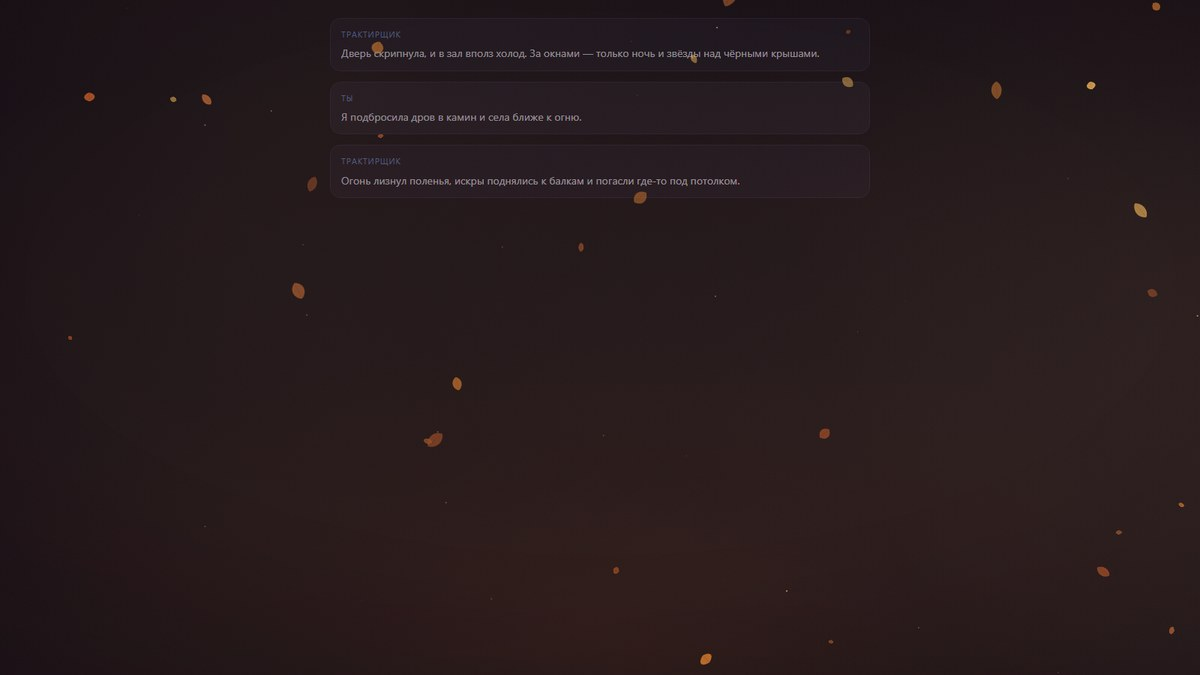
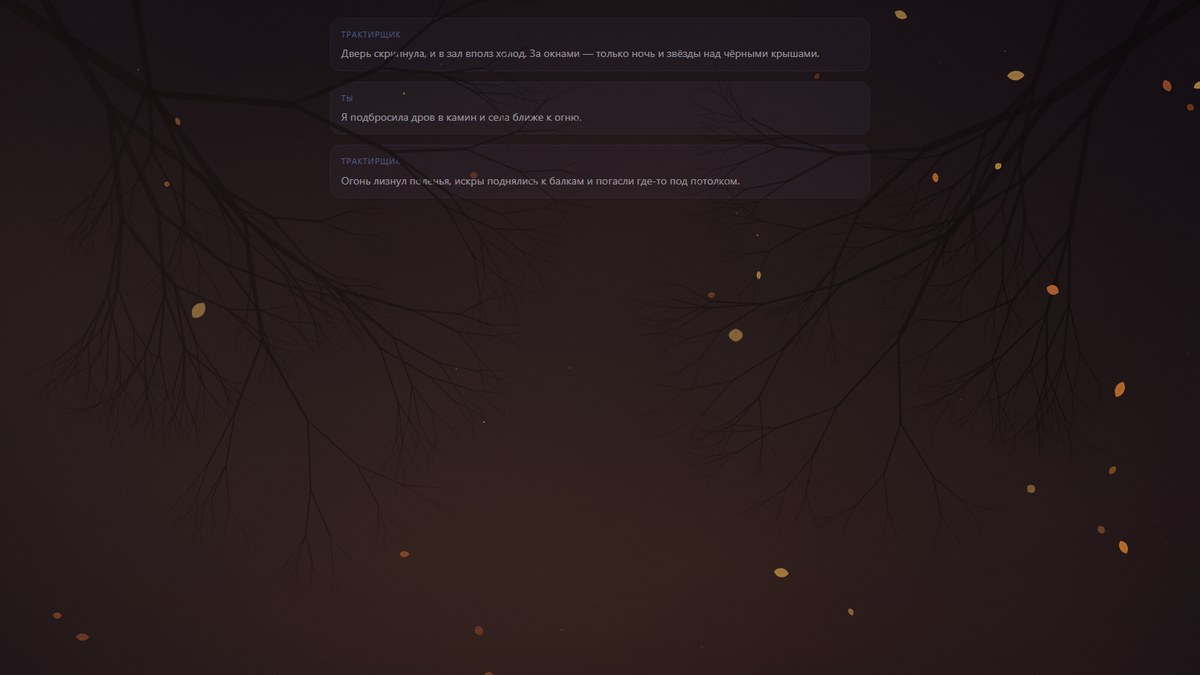
0.3.3: procedural branches for autumn and sakura scenes

diff --git a/src/effects/branches.js b/src/effects/branches.js
@@ -1,0 +1,101 @@
+/*
+ * Ветви: тёмные силуэты, свисающие с верхних углов кадра.
+ *
+ * Рисуются один раз в offscreen-канву (рекурсивное дерево), в кадре — drawImage.
+ * Никаких ассетов: ветки процедурные, поэтому тянутся под любой размер экрана.
+ */
+import { registerEffect, rnd, clamp } from '../engine.js';
+
+/** Одна ветка: линия + рекурсивные побеги. */
+function branch(g, x, y, angle, len, width, depth, color, alpha) {
+    const x2 = x + Math.cos(angle) * len;
+    const y2 = y + Math.sin(angle) * len;
+
+    g.strokeStyle = `rgba(${color},${alpha})`;
+    g.lineWidth = Math.max(0.35, width);
+    g.lineCap = 'round';
+    g.beginPath();
+    g.moveTo(x, y);
+    g.lineTo(x2, y2);
+    g.stroke();
+
+    if (depth <= 0 || width < 0.45) return;
+
+    /* тонкие ветки светлее — даёт ощущение объёма, а не плоской заливки */
+    const childAlpha = alpha * (depth > 2 ? 1 : 0.82);
+    const kids = Math.random() < 0.38 ? 3 : 2;
+    for (let i = 0; i < kids; i++) {
+        const dir = i === 0 ? -1 : 1;
+        const spread = rnd(0.18, 0.5) * dir * (i === 2 ? 0.55 : 1);
+        branch(
+            g,
+            x2,
+            y2,
+            angle + spread + rnd(-0.1, 0.1),
+            len * rnd(0.6, 0.78),
+            width * rnd(0.55, 0.68),
+            depth - 1,
+            color,
+            childAlpha,
+        );
+    }
+}
+
+registerEffect({
+    id: 'branches',
+    name: 'Ветви',
+    group: 'ground',
+    motion: false,
+    create(env) {
+        let w = env.w;
+        let h = env.h;
+        let dpr = env.dpr || 1;
+        const p = env.params || {};
+        const color = p.color || '16,11,14';
+        const alpha = clamp(p.alpha ?? 0.55, 0.05, 1);
+        const depth = Math.round(p.depth ?? 6);
+        const scale = p.scale ?? 1;
+        const sides = Array.isArray(p.sides) ? p.sides : ['left', 'right'];
+        let layer = null;
+
+        function build() {
+            const c = document.createElement('canvas');
+            c.width = Math.max(1, Math.round(w * dpr));
+            c.height = Math.max(1, Math.round(h * dpr));
+            const g = c.getContext('2d');
+            g.setTransform(dpr, 0, 0, dpr, 0, 0);
+
+            const len = Math.min(w, h) * 0.26 * scale;
+            const width = Math.max(5, Math.min(w, h) * 0.016) * scale;
+
+            if (sides.includes('left')) {
+                branch(g, -w * 0.03, -h * 0.04, rnd(0.55, 0.8), len * 1.15, width, depth, color, alpha);
+                branch(g, w * 0.02, -h * 0.05, rnd(0.95, 1.2), len * 0.85, width * 0.75, depth - 1, color, alpha);
+                branch(g, w * 0.11, -h * 0.03, rnd(1.2, 1.45), len * 0.55, width * 0.55, depth - 2, color, alpha * 0.92);
+            }
+            if (sides.includes('right')) {
+                branch(g, w * 1.03, -h * 0.04, Math.PI - rnd(0.55, 0.8), len * 1.15, width, depth, color, alpha);
+                branch(g, w * 0.98, -h * 0.05, Math.PI - rnd(0.95, 1.2), len * 0.85, width * 0.75, depth - 1, color, alpha);
+                branch(g, w * 0.89, -h * 0.03, Math.PI - rnd(1.2, 1.45), len * 0.55, width * 0.55, depth - 2, color, alpha * 0.92);
+            }
+            if (sides.includes('top')) {
+                branch(g, w * rnd(0.3, 0.7), -h * 0.05, Math.PI / 2 + rnd(-0.3, 0.3), len * 0.8, width * 0.7, depth - 1, color, alpha * 0.9);
+            }
+
+            layer = c;
+        }
+        build();
+
+        return {
+            resize(nw, nh, ndpr) {
+                w = nw;
+                h = nh;
+                dpr = ndpr || dpr;
+                build();
+            },
+            draw(ctx) {
+                if (layer) ctx.drawImage(layer, 0, 0, w, h);
+            },
+        };
+    },
+});

diff --git a/src/scenes.js b/src/scenes.js
@@ -12,6 +12,7 @@ import './effects/leaves.js';
 import './effects/magic.js';
 import './effects/ash.js';
 import './effects/rays.js';
+import './effects/branches.js';
 
 /* ---------- небо ---------- */
 
@@ -207,6 +208,7 @@ export const SCENES = [
         sky: 'autumn',
         grade: { shade: 1, tint: 'rgba(92,42,16,.16)' },
         layers: [
+            { effect: 'branches', params: { color: '10,7,9', alpha: 0.85, depth: 7, scale: 1.1, sides: ['left', 'right'] } },
             { effect: 'leaves', params: { shape: 'leaf', size: 1, count: 34 } },
             { effect: 'mist', params: { color: '164,124,96' }, intensity: 0.45 },
             { effect: 'motes', params: { color: '255,196,130', size: 0.6 }, intensity: 0.45 },
@@ -232,6 +234,7 @@ export const SCENES = [
         sky: 'sakura',
         grade: { shade: 1, tint: 'rgba(122,40,82,.14)' },
         layers: [
+            { effect: 'branches', params: { color: '20,12,20', alpha: 0.8, depth: 7, scale: 1.05, sides: ['left', 'right'] } },
             { effect: 'leaves', params: { shape: 'petal', size: 0.95, count: 48 } },
             { effect: 'mist', params: { color: '232,182,204' }, intensity: 0.4 },
             { effect: 'motes', params: { color: '255,214,232', size: 0.55 }, intensity: 0.5 },

diff --git a/demo/demo.html b/demo/demo.html
@@ -91,7 +91,7 @@ function applyScene(id) {
 }
 
 const ui = createUI({
-    version: '0.3.2',
+    version: '0.3.3',
     scenes: SCENES,
     getSettings: () => settings,
     setScene: (id) => applyScene(id),

diff --git a/index.js b/index.js
@@ -98,7 +98,7 @@ function rememberChat() {
 
 const engine = new Engine();
 
-const VERSION = '0.3.2';
+const VERSION = '0.3.3';
 
 const ui = createUI({
     version: VERSION,

diff --git a/CHANGELOG.md b/CHANGELOG.md
@@ -1,5 +1,13 @@
 # Changelog
 
+## 0.3.3 — branches for autumn and sakura
+
+- **New effect `branches`:** dark bare-branch silhouettes hanging from the top corners, generated
+  procedurally (recursive tree drawn once into an offscreen canvas), so they scale to any screen
+  without assets and cost nothing per frame.
+- Added to `autumn` and `sakura` scenes; the effect is parameterised (`color`, `alpha`, `depth`,
+  `scale`, `sides: left/right/top`) so it can be dropped into any scene.
+
 ## 0.3.2 — self-healing layer geometry
 
 - **The layer now corrects its own position.** When SillyTavern moves its panels (mobile drawer,

diff --git a/README.md b/README.md
@@ -41,7 +41,7 @@ Requires SillyTavern **1.12+**. No API, no external requests, nothing is written
 | `forest` | Enchanted Forest | fireflies, mist, green grade |
 | `desert` | Desert | dunes, blowing sand, heat shimmer |
 | `desert_night` | Desert at Night | stars over dunes, cold sand |
-| `autumn` | Autumn Leaves | falling maple leaves, warm haze |
+| `autumn` | Autumn Leaves | bare branches from the top, falling leaves, warm haze |
 | `garden` | Green Garden | green leaves, pollen dust |
 | `sakura` | Sakura | petals, pink haze |
 | `arcane` | Magic | particles with tails, swirling sparks |
